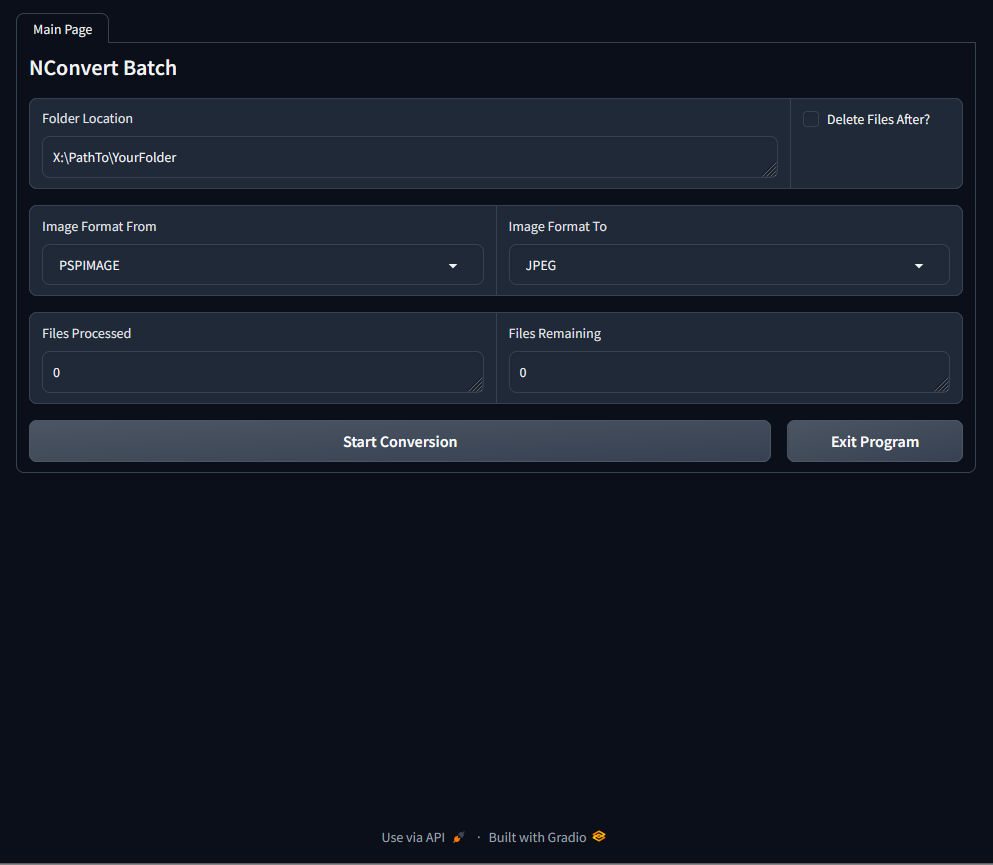
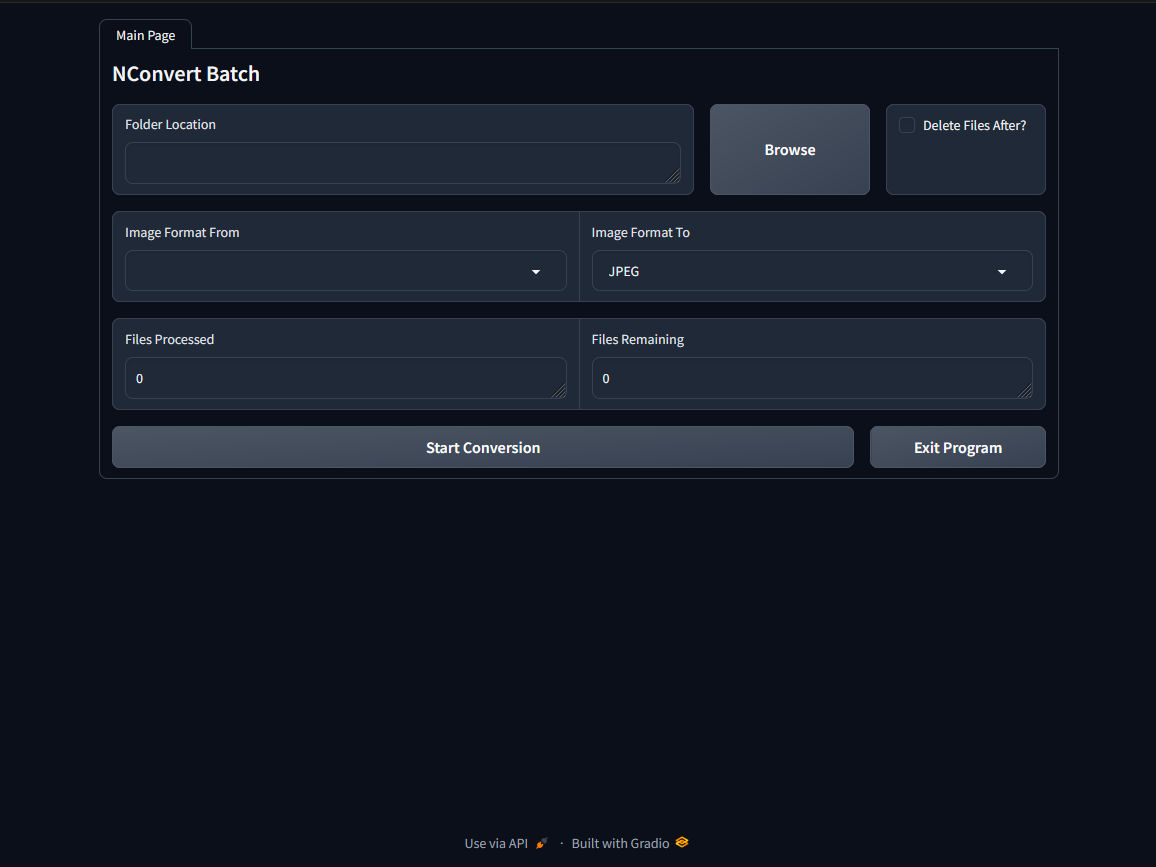
Add files via upload

Changed region(s): [[0.0312, 0.0, 0.9678, 0.5618], [0.0, 0.9364, 1.0, 1.0]]

diff --git a/main_python.py b/main_python.py
@@ -3,6 +3,7 @@ import gradio as gr
 import webbrowser
 from threading import Timer
 import subprocess
+from tkinter import Tk, filedialog
 
 # Default values
 folder_location = "X:\\PathTo\\YourFolder"
@@ -13,6 +14,10 @@ delete_files_after = False
 
 # Allowed file formats
 allowed_formats = ["JPEG", "PNG", "BMP", "GIF", "TIFF", "HEIF", "WebP", "SVG", "PSD", "PSPIMAGE"]
+
+# Global variables to track processing status
+files_process_done = 0
+files_process_total = 0
 
 def set_folder_location(new_location):
     global folder_location
@@ -35,6 +40,8 @@ def set_delete_files_after(should_delete):
     return delete_files_after
 
 def start_conversion():
+    global files_process_done, files_process_total
+    
     if not os.path.exists(folder_location):
         return "Please set a valid folder location."
     
@@ -45,9 +52,8 @@ def start_conversion():
     if not files:
         return f"No files with the extension {format_from} found in the specified location."
     
-    converted_count = 0
-    total_files = len(files)
-    remaining_files = total_files
+    files_process_done = 0
+    files_process_total = len(files)
 
     for input_file in files:
         output_file = os.path.splitext(input_file)[0] + f".{format_to}"
@@ -56,16 +62,17 @@ def start_conversion():
         result = subprocess.run(command, shell=True)
         
         if result.returncode == 0:
-            converted_count += 1
-        remaining_files -= 1
+            files_process_done += 1
     
     if delete_files_after:
         for input_file in files:
             os.remove(input_file)
     
-    return f"Conversion completed. Total files converted: {converted_count}"
+    return f"Conversion completed. Total files converted: {files_process_done}"
 
 def launch_gradio_interface():
+    global files_process_done, files_process_total, folder_location, format_from, format_to
+
     def update_stats():
         if not os.path.exists(folder_location):
             return "N/A", "N/A"
@@ -77,13 +84,25 @@ def launch_gradio_interface():
         total_files = len(files)
         return str(total_files), str(total_files)
 
+    def browse_folder():
+        global folder_location
+        root = Tk()
+        root.withdraw()  # Hide the main window
+        folder_selected = filedialog.askdirectory(initialdir=folder_location)
+        root.destroy()
+        if folder_selected:
+            folder_location = folder_selected
+            return folder_location
+        return folder_location
+
     with gr.Blocks() as demo:
         with gr.Tabs():
             with gr.Tab("Main Page"):
                 gr.Markdown("## NConvert Batch")
                 
                 with gr.Row():
-                    folder_location_input = gr.Textbox(label="Folder Location", value=folder_location, interactive=True, scale=5)
+                    folder_location_display = gr.Textbox(label="Folder Location", value=folder_location, interactive=False, scale=5)
+                    browse_button = gr.Button("Browse", scale=1)
                     delete_files_checkbox = gr.Checkbox(label="Delete Files After?", value=False, scale=1)
                 
                 with gr.Row():
@@ -99,16 +118,27 @@ def launch_gradio_interface():
                     exit_button = gr.Button("Exit Program", scale=1)
 
                 def on_start_conversion():
+                    global files_process_done, files_process_total
+
                     total_files, _ = update_stats()
-                    files_remaining.update(value=total_files)
+                    files_process_total = int(total_files)
+                    files_process_done = 0
+                    files_remaining.value = str(files_process_total)
+
                     result = start_conversion()
-                    files_processed.update(value=total_files)
-                    files_remaining.update(value="0")
+
+                    files_processed.value = str(files_process_done)
+                    files_remaining.value = "0"
                     return result
                 
-                folder_location_input.change(set_folder_location, inputs=[folder_location_input], outputs=folder_location_input)
-                format_from_input.change(set_format_from, inputs=[format_from_input], outputs=format_from_input)
-                format_to_input.change(set_format_to, inputs=[format_to_input], outputs=format_to_input)
+                def update_folder_location():
+                    new_location = browse_folder()
+                    folder_location_display.value = new_location
+
+                folder_location_display.change(set_folder_location, inputs=[folder_location_display], outputs=folder_location_display)
+                browse_button.click(update_folder_location, outputs=[folder_location_display])
+                format_from_input.change(set_format_from, inputs=[format_from_input], outputs=[format_from_input])
+                format_to_input.change(set_format_to, inputs=[format_to_input], outputs=[format_to_input])
                 delete_files_checkbox.change(set_delete_files_after, inputs=[delete_files_checkbox], outputs=delete_files_checkbox)
                 start_button.click(on_start_conversion, outputs=None)
                 exit_button.click(lambda: os._exit(0), outputs=None)
